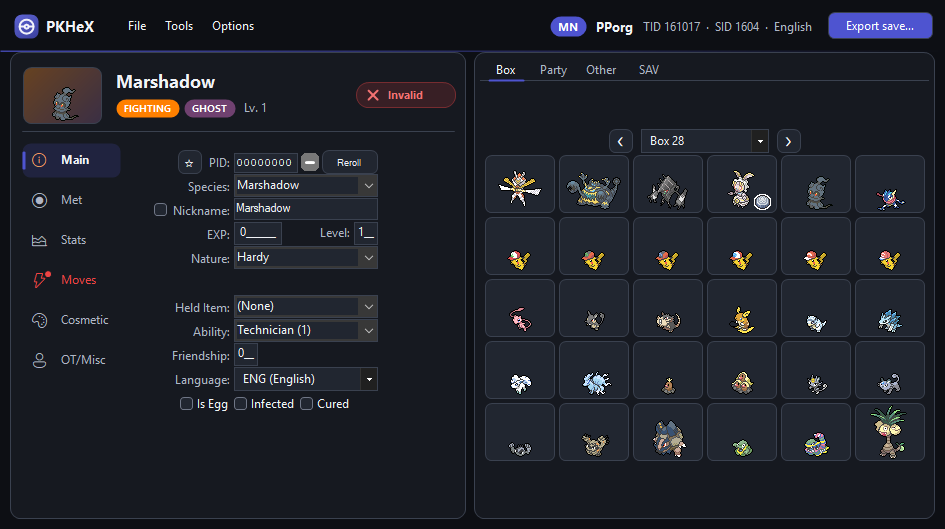
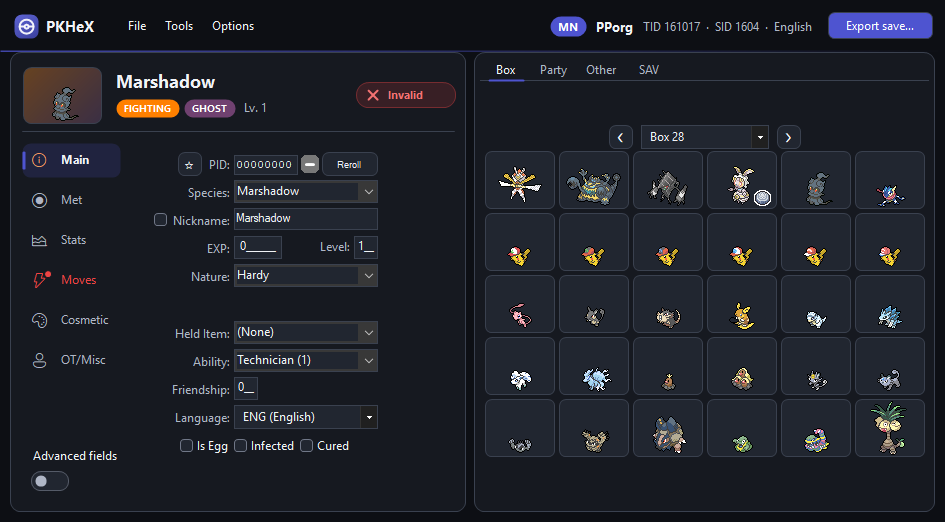
Simple mode for the Pokémon editor; sub-window polish
- Expert-only fields (form argument, battle version, obedience level, ground
  tile, encryption constant, HOME tracker, extra bytes) are hidden unless
  "Advanced fields" is switched on in the editor sidebar or in Settings.
  Values are still loaded and saved; nothing depends on their visibility.
- More vertical spacing between editor rows
- Save/OK buttons render as the primary action in every dialog
- Editable dropdowns no longer show a stray selection highlight, and those
  without autocomplete no longer render as white fields in dark mode
- README: simple mode, sub-window screenshot

diff --git a/PKHeX.WinForms/Controls/PKM Editor/PKMEditor.cs b/PKHeX.WinForms/Controls/PKM Editor/PKMEditor.cs
@@ -25,6 +25,7 @@ public sealed partial class PKMEditor : UserControl, IMainEditor
     {
         InitializeComponent();
         InitializeSidebar();
+        InitializeSimpleMode();
 
         var font = FontUtil.GetPKXFont();
         TB_Nickname.Font = TB_OT.Font = TB_HT.Font = font;
@@ -79,6 +80,69 @@ public sealed partial class PKMEditor : UserControl, IMainEditor
         TB_EXP.MouseWheel += WinFormsUtil.MouseWheelIncrement1;
         TB_Level.MouseWheel += WinFormsUtil.MouseWheelIncrement1;
         TB_Friendship.MouseWheel += WinFormsUtil.MouseWheelIncrement1;
+    }
+
+    // Simple mode: expert-only fields stay hidden unless "Advanced fields" is on. Their values still load and save,
+    // and nothing reads these controls' visibility, so hiding them never drops data.
+    private Control[] AdvancedFields = [];
+    private readonly ToggleSwitch AdvancedToggle = new() { Name = "TS_Advanced", AccessibleName = "Advanced fields" };
+
+    private void InitializeSimpleMode()
+    {
+        AdvancedFields = [FLP_BattleVersion, FLP_ObedienceLevel, FLP_GroundTile, FLP_ExtraBytes, FLP_HomeTracker, FLP_EncryptionConstant, FA_Form, L_FormArgument];
+        foreach (var c in AdvancedFields)
+        {
+            var field = c;
+            field.VisibleChanged += (_, _) =>
+            {
+                if (field.Visible && !Main.Settings.EntityEditor.ShowAdvancedFields)
+                    field.Visible = false;
+            };
+        }
+
+        // Rows get a little breathing room.
+        foreach (var flp in new[] { FLP_Main, FLP_Met, FLP_OTMisc })
+        {
+            foreach (Control row in flp.Controls)
+            {
+                if (row is FlowLayoutPanel)
+                    row.Margin = new Padding(0, 2, 0, 2);
+            }
+        }
+
+        var label = new Label { Text = "Advanced fields", AutoSize = true, Name = "L_Advanced" }; // stacked above the switch: the sidebar column is narrow
+        AdvancedToggle.Location = new Point(LogicalToDeviceUnits(14), Height - LogicalToDeviceUnits(36));
+        AdvancedToggle.Anchor = AnchorStyles.Bottom | AnchorStyles.Left;
+        label.Location = new Point(AdvancedToggle.Left, AdvancedToggle.Top - LogicalToDeviceUnits(22));
+        label.Anchor = AnchorStyles.Bottom | AnchorStyles.Left;
+        label.Click += (_, _) => AdvancedToggle.Checked = !AdvancedToggle.Checked;
+        AdvancedToggle.Checked = Main.Settings.EntityEditor.ShowAdvancedFields;
+        Controls.Add(AdvancedToggle);
+        Controls.Add(label);
+        AdvancedToggle.BringToFront(); // above the sidebar list, which extends down to here
+        label.BringToFront();
+        AdvancedToggle.CheckedChanged += (_, _) =>
+        {
+            if (Main.Settings.EntityEditor.ShowAdvancedFields == AdvancedToggle.Checked)
+                return;
+            Main.Settings.EntityEditor.ShowAdvancedFields = AdvancedToggle.Checked;
+            ApplyAdvancedFields();
+        };
+    }
+
+    /// <summary> Shows or hides expert-only fields per <see cref="EntityEditorSettings.ShowAdvancedFields"/>. </summary>
+    public void ApplyAdvancedFields()
+    {
+        bool show = Main.Settings.EntityEditor.ShowAdvancedFields;
+        AdvancedToggle.Checked = show;
+        if (!show)
+        {
+            foreach (var c in AdvancedFields)
+                c.Visible = false;
+            return;
+        }
+        if (FieldsLoaded) // reloading restores each field's per-format visibility
+            PopulateFields(PreparePKM(false), false);
     }
 
     private void InitializeSidebar()

diff --git a/PKHeX.WinForms/Theming/ThemeWalker.cs b/PKHeX.WinForms/Theming/ThemeWalker.cs
@@ -94,7 +94,8 @@ internal static class ThemeWalker
                 btn.FlatAppearance.BorderSize = 1;
                 btn.FlatAppearance.MouseOverBackColor = p.Surface2;
                 btn.FlatAppearance.MouseDownBackColor = p.PressedSurface;
-                bool primary = btn.Tag is PrimaryTag; // call-to-action buttons get the accent fill
+                // Call-to-action buttons get the accent fill: explicit tag, or the conventional Save/OK of a dialog.
+                bool primary = btn.Tag is PrimaryTag || btn.Name is "B_Save" or "B_OK";
                 btn.BackColor = primary ? p.Accent : p.Surface1;
                 btn.ForeColor = primary ? p.AccentText : p.TextPrimary;
                 btn.UseVisualStyleBackColor = false;
@@ -152,7 +153,21 @@ internal static class ThemeWalker
                 // light system theme in dark mode, so those are flat + owner-drawn.
                 if (cbx.DropDownStyle != ComboBoxStyle.DropDownList)
                 {
-                    cbx.FlatStyle = FlatStyle.Standard;
+                    // Without autocomplete the native dark chrome falls back to a white field; flat honors BackColor.
+                    cbx.FlatStyle = cbx.AutoCompleteMode == AutoCompleteMode.None ? FlatStyle.Flat : FlatStyle.Standard;
+                    if (_themedCombos.TryAdd(cbx, _sentinel))
+                    {
+                        // Editable combos keep their text selected after a programmatic change, which reads as a stray
+                        // highlight bar while unfocused.
+                        void Unselect(object? s, EventArgs e) { if (!cbx.Focused && cbx.IsHandleCreated && cbx.SelectionLength != 0) cbx.SelectionLength = 0; }
+                        // The control re-selects its text after raising SelectedIndexChanged, so clear it afterwards.
+                        cbx.SelectedIndexChanged += (s, e) => { if (cbx.IsHandleCreated) cbx.BeginInvoke(() => Unselect(s, e)); };
+                        cbx.Leave += Unselect;
+                        cbx.VisibleChanged += Unselect;
+                    }
+                    // Values loaded before theming (sub-form constructors) are still selected; clear once the control is up.
+                    if (cbx.IsHandleCreated)
+                        cbx.BeginInvoke(() => { if (!cbx.Focused && cbx.SelectionLength != 0) cbx.SelectionLength = 0; });
                 }
                 else if (cbx.DrawMode == DrawMode.Normal || _themedCombos.TryGetValue(cbx, out _))
                 {

diff --git a/PKHeX.Core/Editing/Program/Settings/EntityEditorSettings.cs b/PKHeX.Core/Editing/Program/Settings/EntityEditorSettings.cs
@@ -16,4 +16,7 @@ public sealed class EntityEditorSettings
 
     [LocalizedDescription("When showing an entity, show the Experience Bar to allow editing of EXP and Level.")]
     public bool ShowExperienceBar { get; set; } = true;
+
+    [LocalizedDescription("Show expert-only fields in the Pokémon editor (form argument, battle version, obedience level, ground tile, encryption constant, HOME tracker, extra bytes). Their values are kept either way.")]
+    public bool ShowAdvancedFields { get; set; }
 }

diff --git a/PKHeX.WinForms/Controls/PKM Editor/PKMEditor.Designer.cs b/PKHeX.WinForms/Controls/PKM Editor/PKMEditor.Designer.cs
@@ -3289,7 +3289,7 @@ namespace PKHeX.WinForms.Controls
             // 
             // StatusView
             // 
-            StatusView.Location = new System.Drawing.Point(2, 303);
+            StatusView.Location = new System.Drawing.Point(23, 256);
             StatusView.Margin = new System.Windows.Forms.Padding(0);
             StatusView.Name = "StatusView";
             StatusView.Size = new System.Drawing.Size(64, 64);

diff --git a/PKHeX.WinForms/MainWindow/Main.cs b/PKHeX.WinForms/MainWindow/Main.cs
@@ -396,6 +396,7 @@ public partial class Main : Form, Theming.IThemedControl
         // Update final settings
         ReloadProgramSettings(Settings);
         Theming.Theme.Refresh();
+        PKME_Tabs.ApplyAdvancedFields();
 
         if (form.BlankChanged) // changed by user
         {

diff --git a/README.md b/README.md
@@ -10,13 +10,16 @@ A fork of [hexbyt3/PKHeXth](https://github.com/hexbyt3/PKHeXth) (itself a fork o
 | --- | --- |
 | ![Main window, light theme](.github/screenshots/main-light.png) | ![Save editor tiles](.github/screenshots/save-tools.png) |
 
-![Settings](.github/screenshots/settings.png)
+| Settings | Sub-windows |
+| --- | --- |
+| ![Settings](.github/screenshots/settings.png) | ![Trainer editor](.github/screenshots/trainer-info.png) |
 
 ## What's different
 
 **Main window**
 - One app bar with the trainer summary and a clear **Open save file** / **Export save** button.
 - Pokémon summary header: sprite, name, gender and shiny marks, type chips, level, and the legality badge.
+- **Simple by default:** expert-only fields (form argument, battle version, obedience level, ground tile, encryption constant, HOME tracker, extra bytes) stay hidden until you flip **Advanced fields** at the bottom of the editor sidebar. Their values are kept either way.
 - Editor and box panes drawn as cards; sidebar sections with icons, and a red dot on sections that contain invalid data.
 - Box and party slots as rounded tiles, with box wallpapers shown through in light mode.
 - Save editors on the SAV tab as labelled icon tiles instead of a wall of small buttons.
@@ -29,6 +32,7 @@ A fork of [hexbyt3/PKHeXth](https://github.com/hexbyt3/PKHeXth) (itself a fork o
 **Everywhere** (including sub-windows and plugin windows)
 - Dark and light themes with an accent color picked from the loaded game (or your own color).
 - Flat underline tabs, rounded buttons, themed text, number, date and dropdown fields, rounded group boxes.
+- Save / OK buttons stand out as the primary action in every dialog.
 - The Windows title bar matches the app.
 
 **Fixes**
